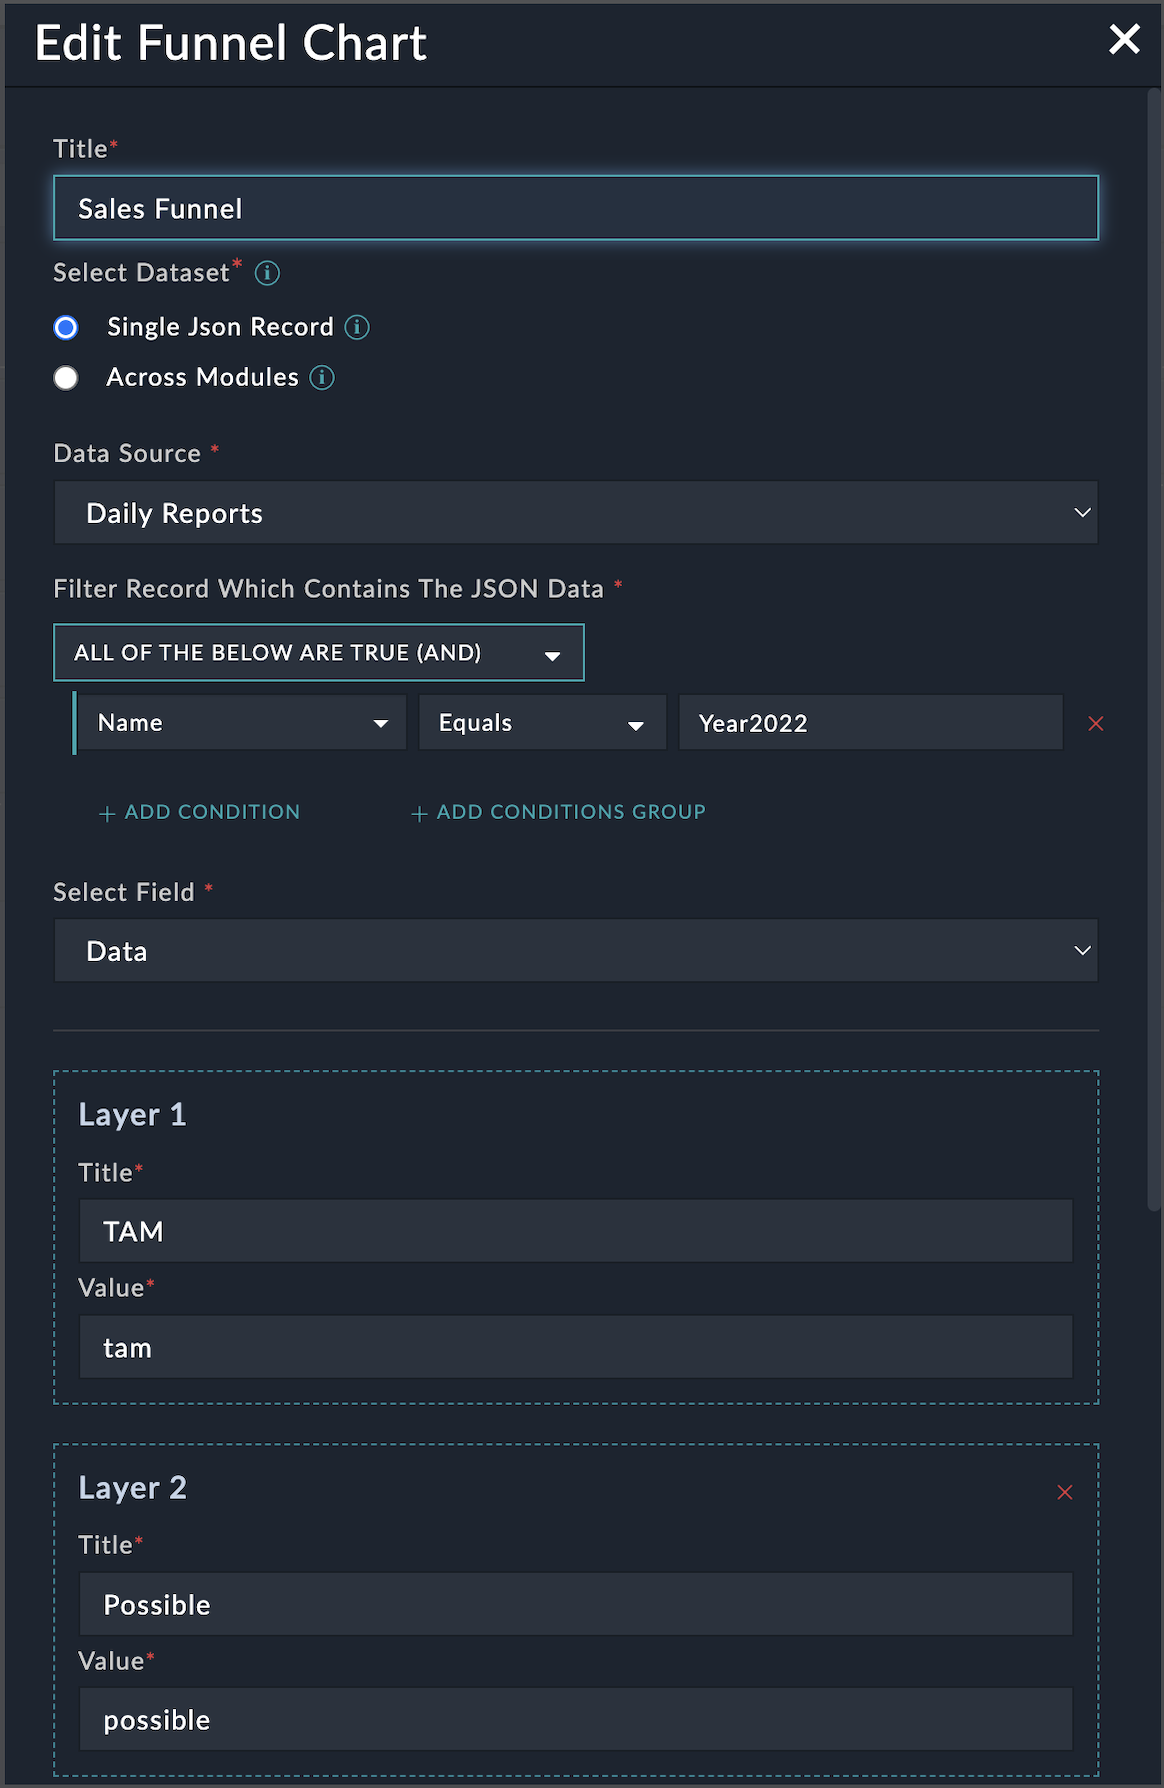
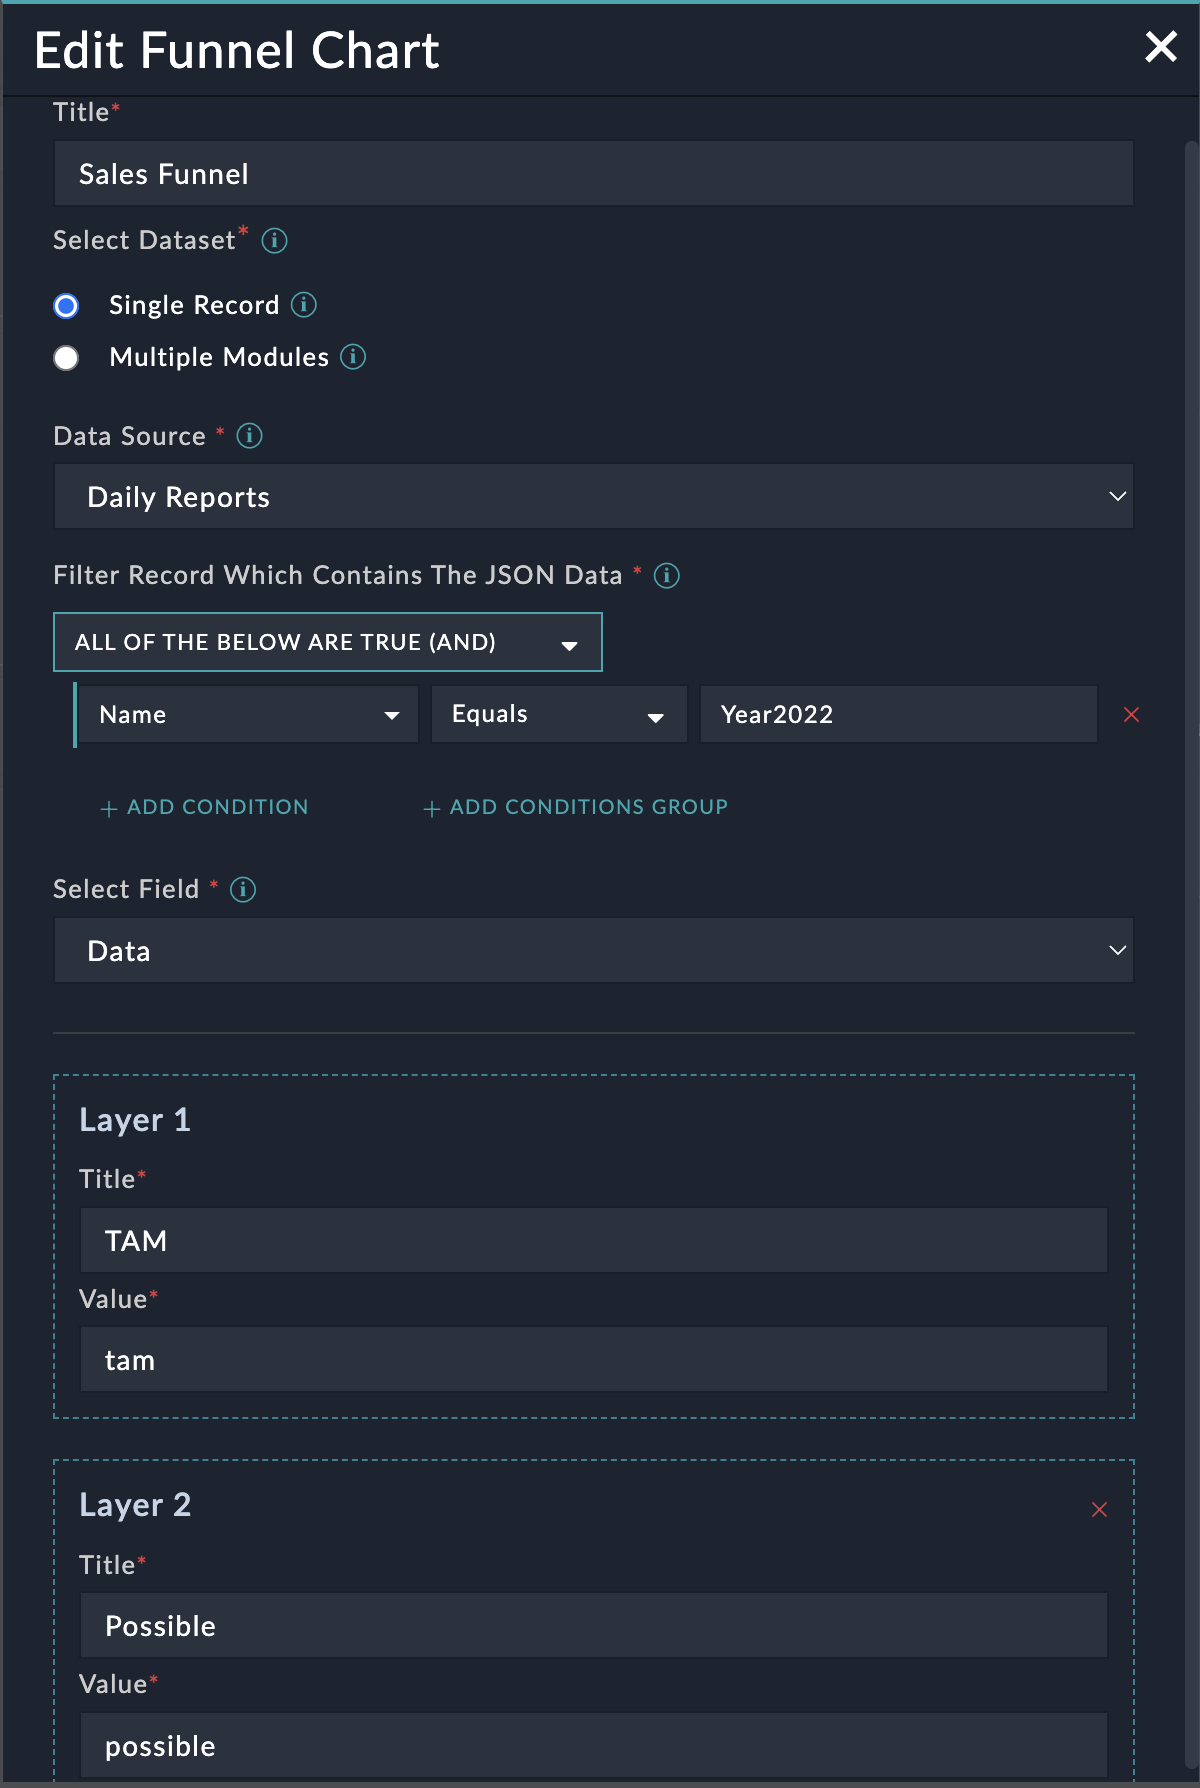
Doc change

diff --git a/widget/edit.html b/widget/edit.html
@@ -17,29 +17,29 @@
             data-ng-class="{ 'has-error': editFunnelWidgetForm.funnelModuleType.$invalid && editFunnelWidgetForm.funnelModuleType.$touched }">
             <label for="funnelModuleType" class="control-label">Select Dataset</label><span class="text-danger">*
                 <span
-                    data-uib-tooltip="Select the 'Single Module' option if all the records to be rendered are in a single record of a certain field of the module.
-                'Across Modules' Dataset lets you select the module and it displays the count of records for the module based on the filters given"
+                    data-uib-tooltip="Select the 'Single Record' option if all the records to be rendered are in a single record of a certain field of the module.
+                'Multiple Modules' Dataset lets you select the module and it displays the count of records for the module based on the filters given"
                     data-tooltip-append-to-body="true"><i class="icon icon-information font-Size-13"></i></span>
             </span>
 
             <!-- Radio Button -->
 
             <label for="info" class="control-label margin-top-sm"
-                data-ng-if="config.stopStateTitle.length > 0 && config.slaMappedOn.length > 0 && config.metItemvalue.length > 0 ">Get Count from<span
+                data-ng-if="config.stopStateTitle.length > 0 && config.slaMappedOn.length > 0 && config.metItemvalue.length > 0 ">Select data source<span
                     class="text-danger">*</span>
                 </label>
             <div class="row margin-bottom-sm">
                 <div class="col-md-6 padding-right-0">
                     <div class="radio">
                         <label><input id="JsonField" name="JsonField" type="radio"
-                                data-ng-model="config.funnelModuleType" data-ng-change="onChangeModuleType()" value="Single Module">&nbsp;&nbsp;Single Json Record</label>
-                                <span data-uib-tooltip="If all the records to be rendered are in a single record of a certain field of the module."
+                                data-ng-model="config.funnelModuleType" data-ng-change="onChangeModuleType()" value="Single Module">&nbsp;&nbsp;Single Record</label>
+                                <span data-uib-tooltip="It allows you to select single record that contains a JSON object."
                                     data-tooltip-append-to-body="true"><i class="icon icon-information font-Size-13"></i></span>
                     </div>
                     <div class="radio">
                         <label><input id="accrossModules" name="accrossModules" type="radio"
-                                data-ng-model="config.funnelModuleType" data-ng-change="onChangeModuleType()" value="Across Modules">&nbsp;&nbsp;Across Modules</label>
-                                <span data-uib-tooltip="To Get Count of all records from a module based on filters"
+                                data-ng-model="config.funnelModuleType" data-ng-change="onChangeModuleType()" value="Across Modules">&nbsp;&nbsp;Multiple Modules</label>
+                                <span data-uib-tooltip="It allows you to get the count of records of the selected modules"
                                 data-tooltip-append-to-body="true"><i class="icon icon-information font-Size-13"></i></span>
                     </div>
                 </div>

diff --git a/docs/usage.md b/docs/usage.md
@@ -5,9 +5,9 @@
 
 **Funnel Chart Widget Edit View**
 
-**1. Dataset : Single Module**
+**1. Dataset : Single Record**
 
-Select the "Single Module" option if all the records to be rendered are in a single record of a certain field of the module.
+Select the "Single Record" option if all the data to be rendered are in a single record of a certain field of the module.
 
 <img src="./media/custom-module.png" width=50%>
 
@@ -54,11 +54,11 @@ This is how the data will be visible in the funnel
 Note:  If the value of a given key is not numeric then by default '0' (In this case for incident) will be displayed and user will see an error "Invalid data" hover on .
 
 
-**2. Dataset : Across Modules**
+**2. Dataset : Multiple Modules**
 
-<img src="./media/fsr-modules.png" width=60%>
+<img src="./media/fsr-modules.png" width=50%>
 
-"Across Modules" Dataset lets you select the module and it displays the count of records for the module based on the filters given
+"Multiple Modules" Dataset lets you select the module and it displays the count of records for the module based on the filters given
 
 
 **Widget**

diff --git a/README.md b/README.md
@@ -13,7 +13,10 @@
 
 ## Overview
 
-Funnel chart render the number of the records present in a module according to configuration.
+Funnel chart widget is a graphical representation of data that uses a funnel-shaped diagram to display the progression of data through a series of Layers.
+In SOC (Security Operations Center) analysis, a funnel chart widget can be used to represent the stages of a security incident response process. The chart can be used to visualize the progression of security incidents as they are identified, investigated, and resolved.
+
+Using a funnel chart widget in SOC analysis can help analysts quickly identify trends and patterns in the security incident response process, and can help teams to better prioritize and allocate resources to resolve incidents more efficiently.
 
 ## Next Steps
 
